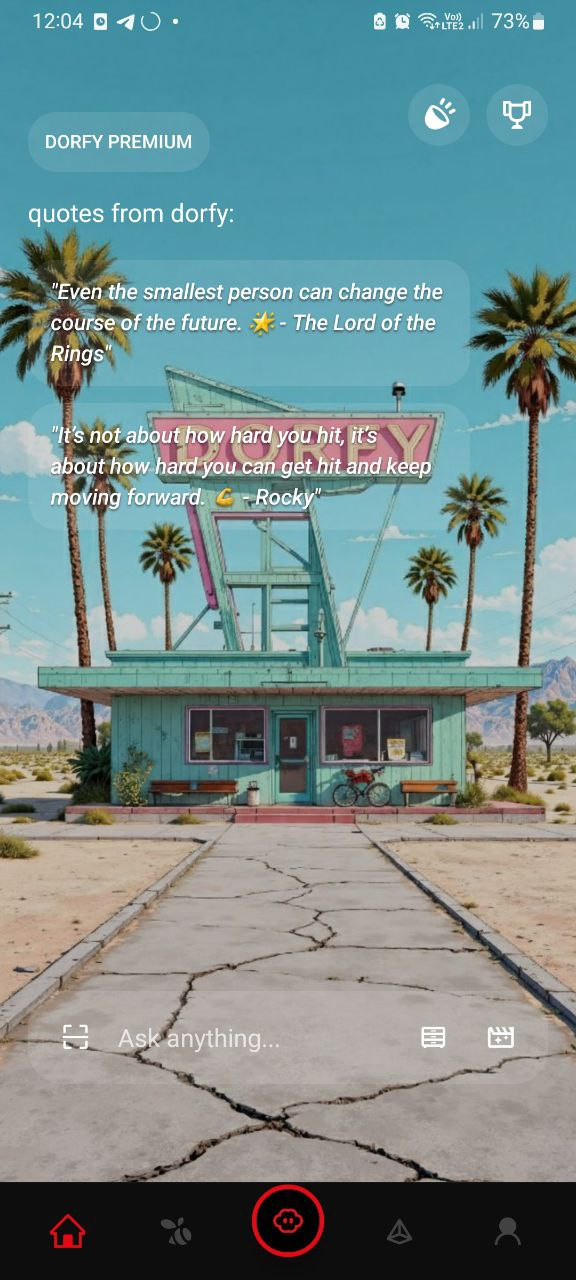
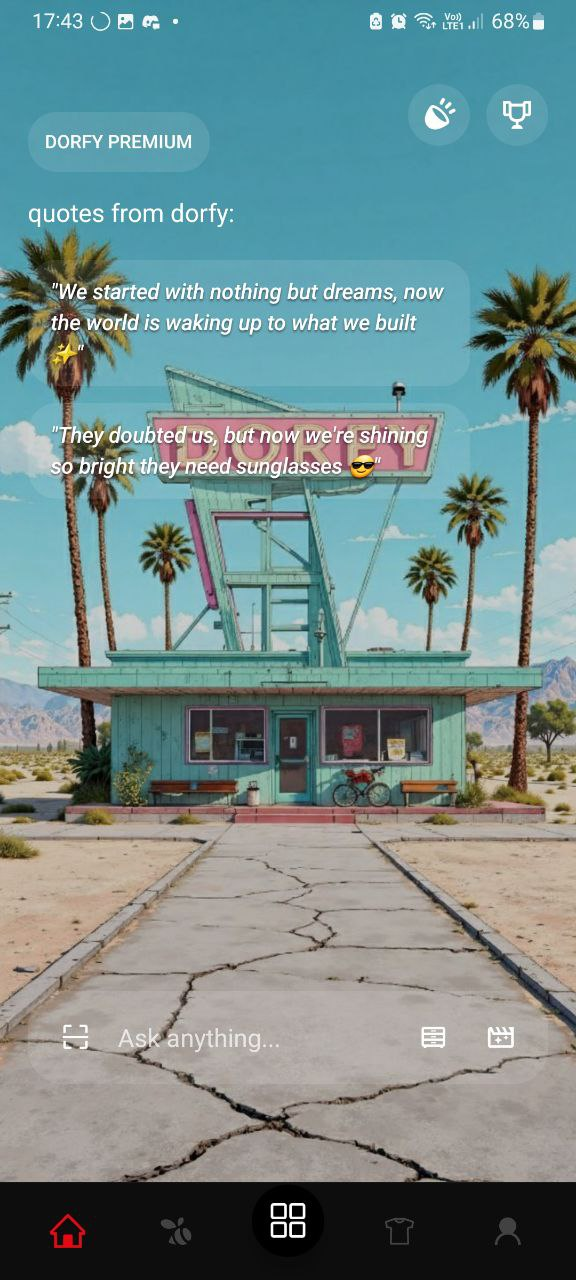
Initial commit

diff --git a/app/components/SlideShowcase.tsx b/app/components/SlideShowcase.tsx
@@ -137,6 +137,16 @@ function IntroSection() {
                 priority
               />
             </div>
+            <div className="homepage-wrapper">
+              <Image
+                src={getAssetPath("/4.jpg")}
+                alt="Dorfy Mini Apps"
+                width={300}
+                height={600}
+                className="phone-mockup"
+                priority
+              />
+            </div>
           </div>
 
           <div className="info-container">
@@ -230,6 +240,10 @@ function IntroSection() {
 
         .app-preview {
           flex: 0 0 auto;
+          display: flex;
+          gap: 24px;
+          flex-wrap: wrap;
+          justify-content: center;
         }
 
         .homepage-wrapper {
@@ -388,6 +402,9 @@ function DesignShowcaseSection() {
 
   // All images excluding homepage, ngl, map, clothes, photo, photo1, photo2, and twitter video
   const showcaseImages = [
+    { src: '/1.jpg', alt: 'Find Similar Products' },
+    { src: '/2.jpg', alt: 'Digital Closet & Outfits' },
+    { src: '/3.jpg', alt: 'Image Search Feature' },
     { src: '/rating.jpg', alt: 'Rating Feature' },
     { src: '/chat1.jpg', alt: 'Chat Interface 1' },
     { src: '/chat2.jpg', alt: 'Chat Interface 2' },
@@ -517,6 +534,7 @@ function DesignShowcaseSection() {
           position: relative;
           opacity: 0;
           animation: fadeInUp 0.6s ease-out forwards;
+          aspect-ratio: 9 / 16;
         }
 
         .showcase-image-wrapper {
@@ -528,6 +546,8 @@ function DesignShowcaseSection() {
             0 0 0 1px rgba(255, 255, 255, 0.1);
           transition: all 0.4s ease;
           background: rgba(26, 26, 26, 0.5);
+          width: 100%;
+          height: 100%;
         }
 
         .showcase-image-wrapper:hover {
@@ -540,7 +560,8 @@ function DesignShowcaseSection() {
 
         .showcase-img {
           width: 100%;
-          height: auto;
+          height: 100%;
+          object-fit: cover;
           display: block;
           border-radius: 20px;
           position: relative;
@@ -573,34 +594,51 @@ function DesignShowcaseSection() {
           display: none;
         }
 
-        /* Mobile responsiveness - 3 columns */
+        /* Mobile responsiveness - optimized for better image fitting */
         @media (max-width: 768px) {
           .showcase-grid {
             grid-template-columns: repeat(3, 1fr);
-            gap: 12px;
+            gap: 10px;
+          }
+
+          .showcase-item {
+            aspect-ratio: 9 / 16;
           }
 
           .showcase-image-wrapper {
-            border-radius: 12px;
+            border-radius: 10px;
           }
 
           .showcase-img {
-            border-radius: 12px;
+            border-radius: 10px;
+            object-fit: cover;
           }
         }
 
         @media (max-width: 480px) {
           .showcase-grid {
             grid-template-columns: repeat(3, 1fr);
-            gap: 8px;
+            gap: 6px;
+          }
+
+          .showcase-item {
+            aspect-ratio: 9 / 16;
           }
 
           .design-showcase-section {
-            padding: 40px 12px;
+            padding: 40px 8px;
           }
 
           .showcase-content {
-            gap: 30px;
+            gap: 25px;
+          }
+
+          .showcase-image-wrapper {
+            border-radius: 8px;
+          }
+
+          .showcase-img {
+            border-radius: 8px;
           }
         }
 
